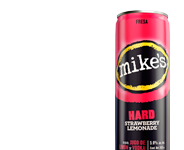
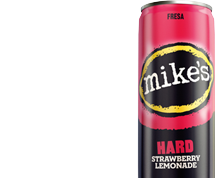
Ajustando

diff --git a/index.html b/index.html
@@ -188,7 +188,7 @@
         </div>
 
         <section class="custom--fixed-image">
-            <img src="images/packshot-mobile.png" alt="packshot" title="packshot" class="m--5">
+            <img src="images/packshot.png" alt="packshot" title="packshot" class="m--5">
         </section>
     </main>
     <footer class="custom--footer">

diff --git a/css/layout.css b/css/layout.css
@@ -125,3 +125,9 @@ ul li {
         padding: 30px 0px 15px;
     }
 }
+
+@media (max-width: 320px) {
+    .custom--fixed-image img {
+        width: 100%;
+    }
+}

diff --git a/css/logo.css b/css/logo.css
@@ -84,6 +84,7 @@
     }
     .main-logo img.advirsment-ad {
         width: 75%;
+        max-width: 75%;
     }
 }
 
